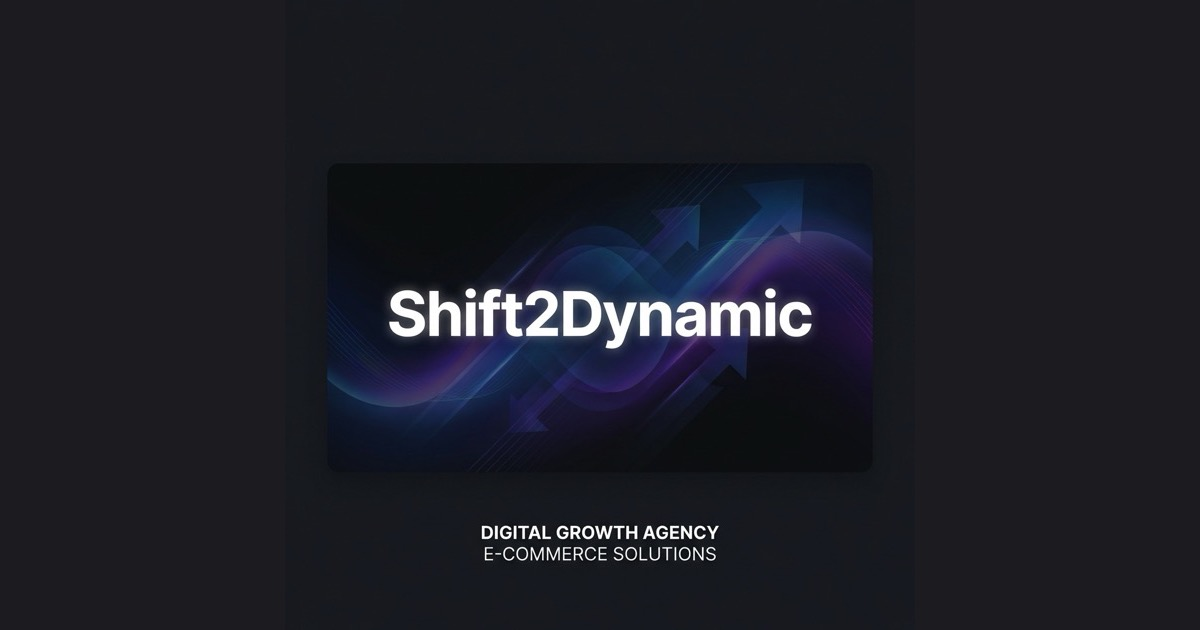
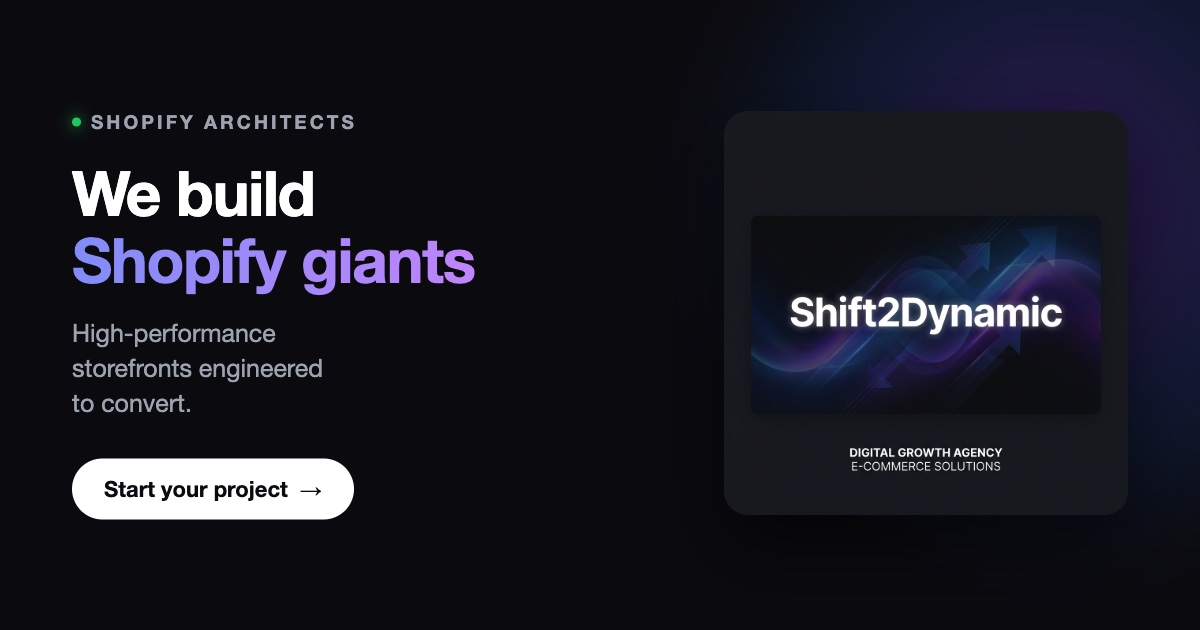
fix: address social preview audit findings
Three issues flagged by a social/SEO audit.

Meta description was 162 characters, past the ~150-160 Google truncates at.
Rewritten to 140.

og:description was 134 characters, past the ~125 social previews show before
truncating on mobile. Rewritten to 91.

The OG image had no call to action. Replaced it with a proper social card:
eyebrow, headline, one line of supporting copy, and a "Start your project"
button, with the existing brand artwork kept as the right-hand panel. This
also fills the 1200x630 frame, which the previous version did not - it was a
square letterboxed with dead bars on both sides.

The card was composed as HTML and rasterised at exactly 1200x630, so it can be
regenerated or re-worded without a design tool.

diff --git a/src/app/layout.tsx b/src/app/layout.tsx
@@ -32,7 +32,7 @@ export const metadata: Metadata = {
     default: "Shift2Dynamic | Shopify Developer & Web Designer",
     template: "%s | Shift2Dynamic"
   },
-  description: "E2E E-Commerce Service Agency. Expert Shopify development and web design services. We build high-converting, beautiful e-commerce experiences and custom websites.",
+  description: "Expert Shopify development and web design. We build high-converting, high-performance e-commerce storefronts and custom websites that scale.",
   keywords: [
     "Shopify Developer", "Web Designer", "E-commerce Expert", "React Developer", "Next.js", 
     "Agency", "Shift2Dynamic", "shift2dynamic", "Shift 2 Dynamic", "S2D", "UI/UX", "Frontend Developer", "E2E E-Commerce", "Full Service Agency",
@@ -46,7 +46,7 @@ export const metadata: Metadata = {
     locale: "en_US",
     url: "/",
     title: "Shift2Dynamic | High-Performance Shopify Agency",
-    description: "E2E ECommerce Service Agency. We build Shopify giants. High-performance, pixel-perfect, and conversion-focused e-commerce experiences.",
+    description: "We build Shopify giants. High-performance, pixel-perfect storefronts engineered to convert.",
     siteName: "Shift2Dynamic",
     images: [
       {
